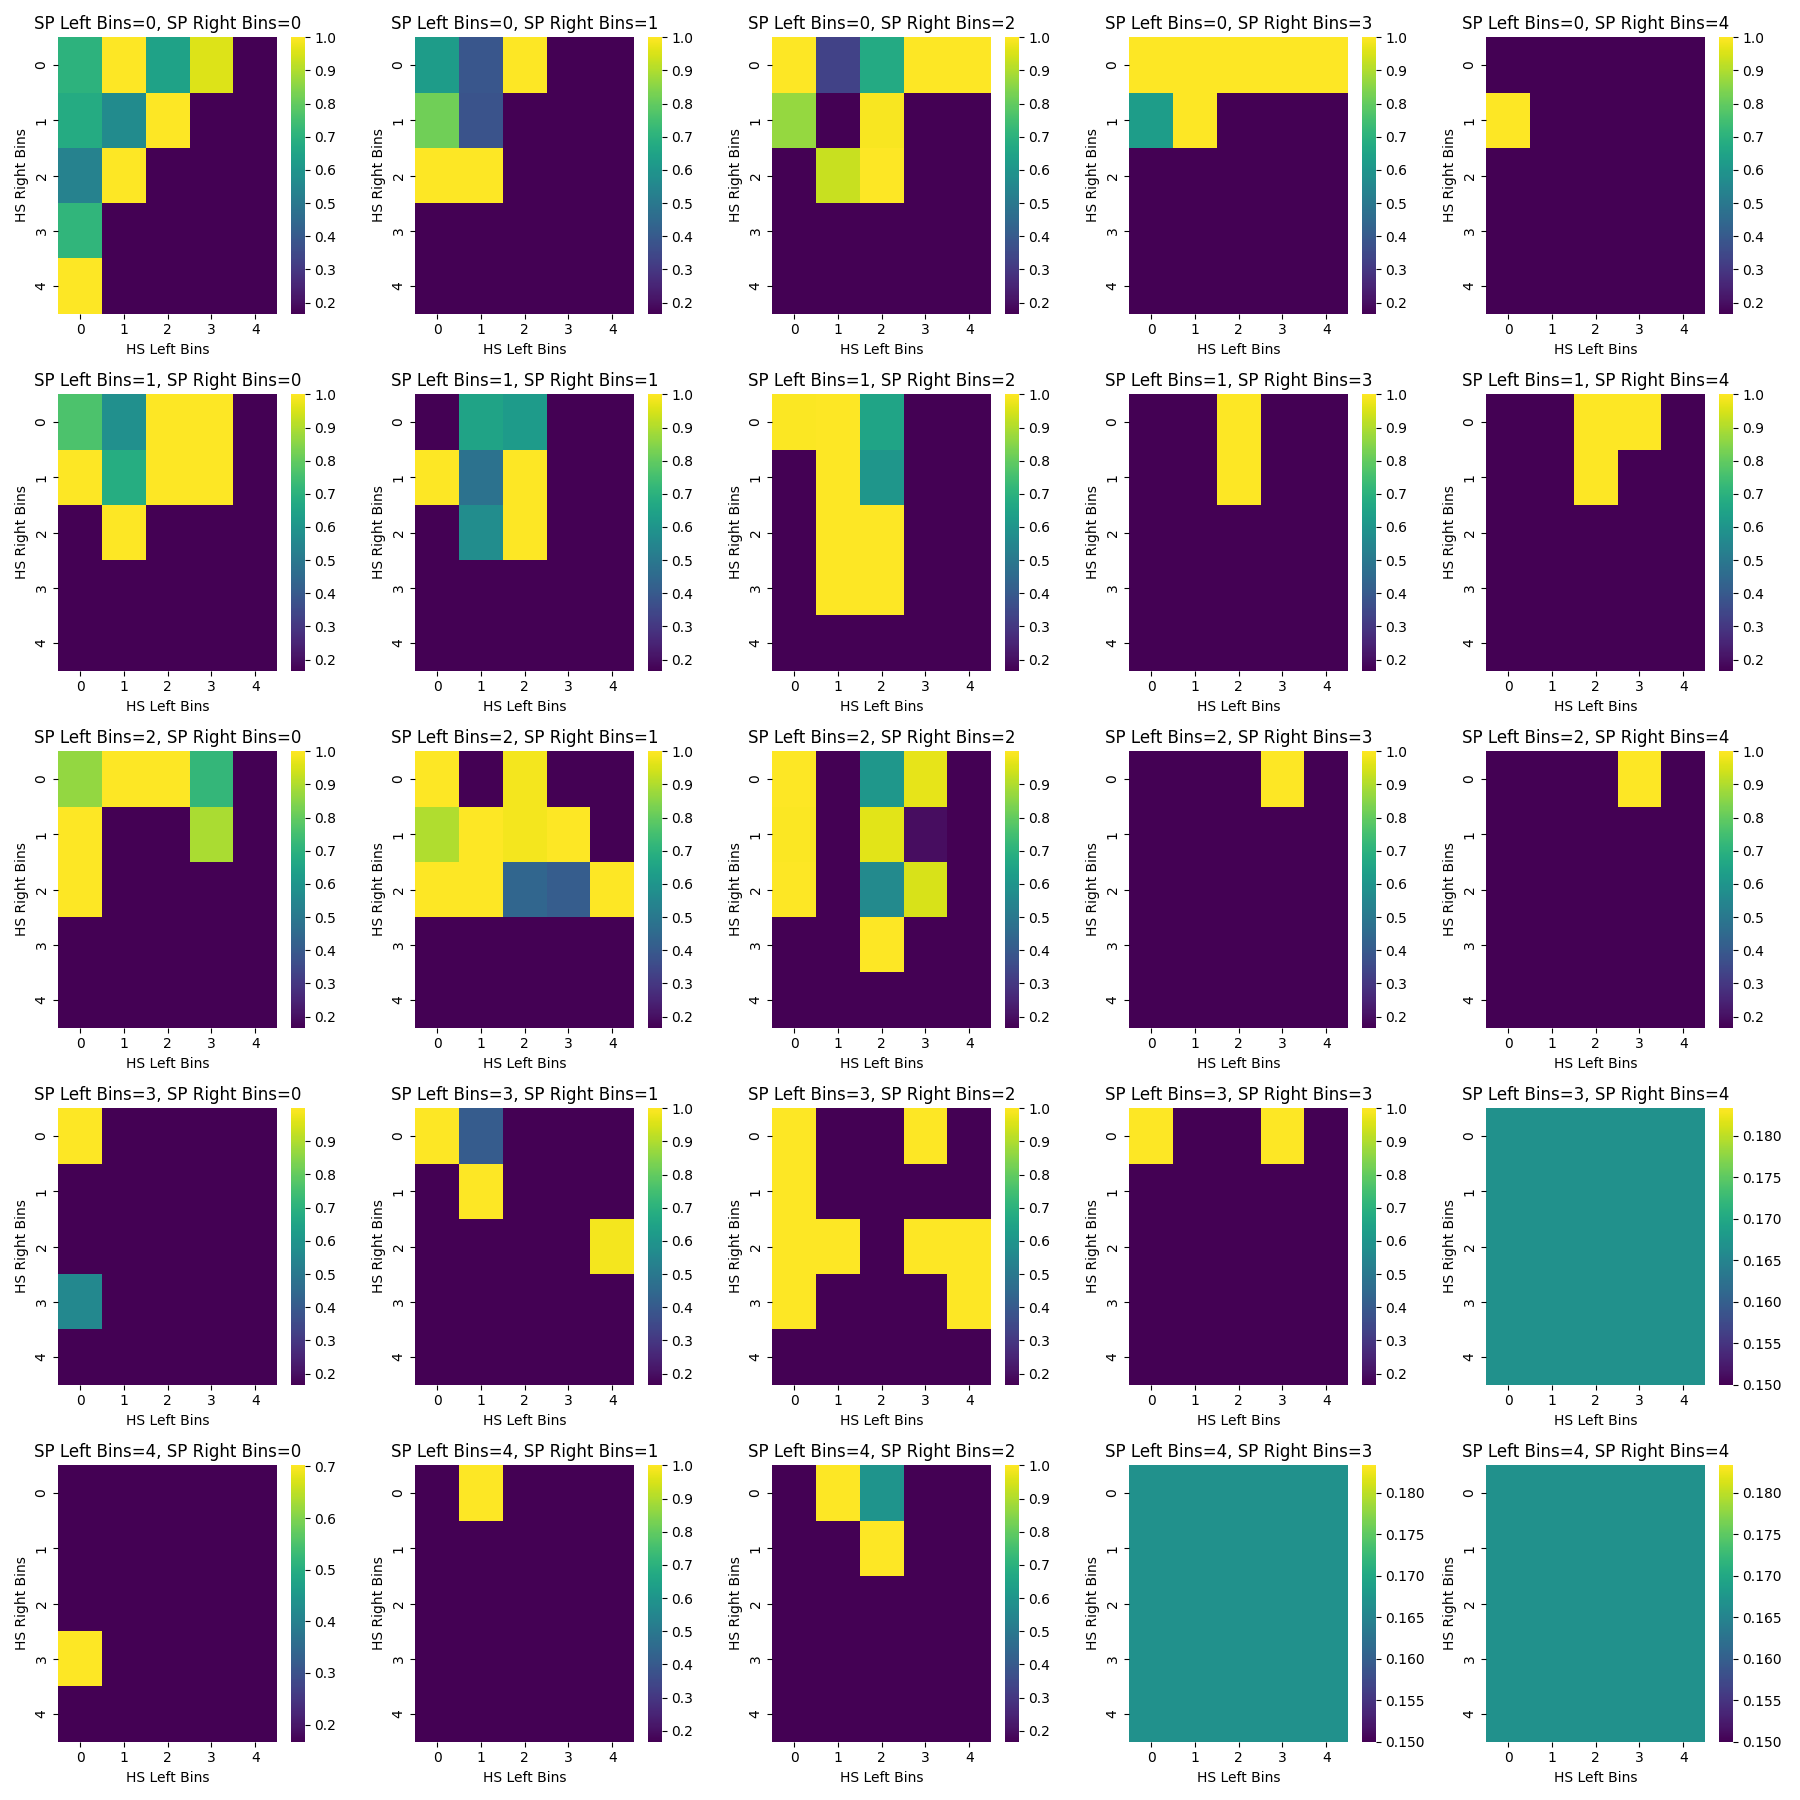
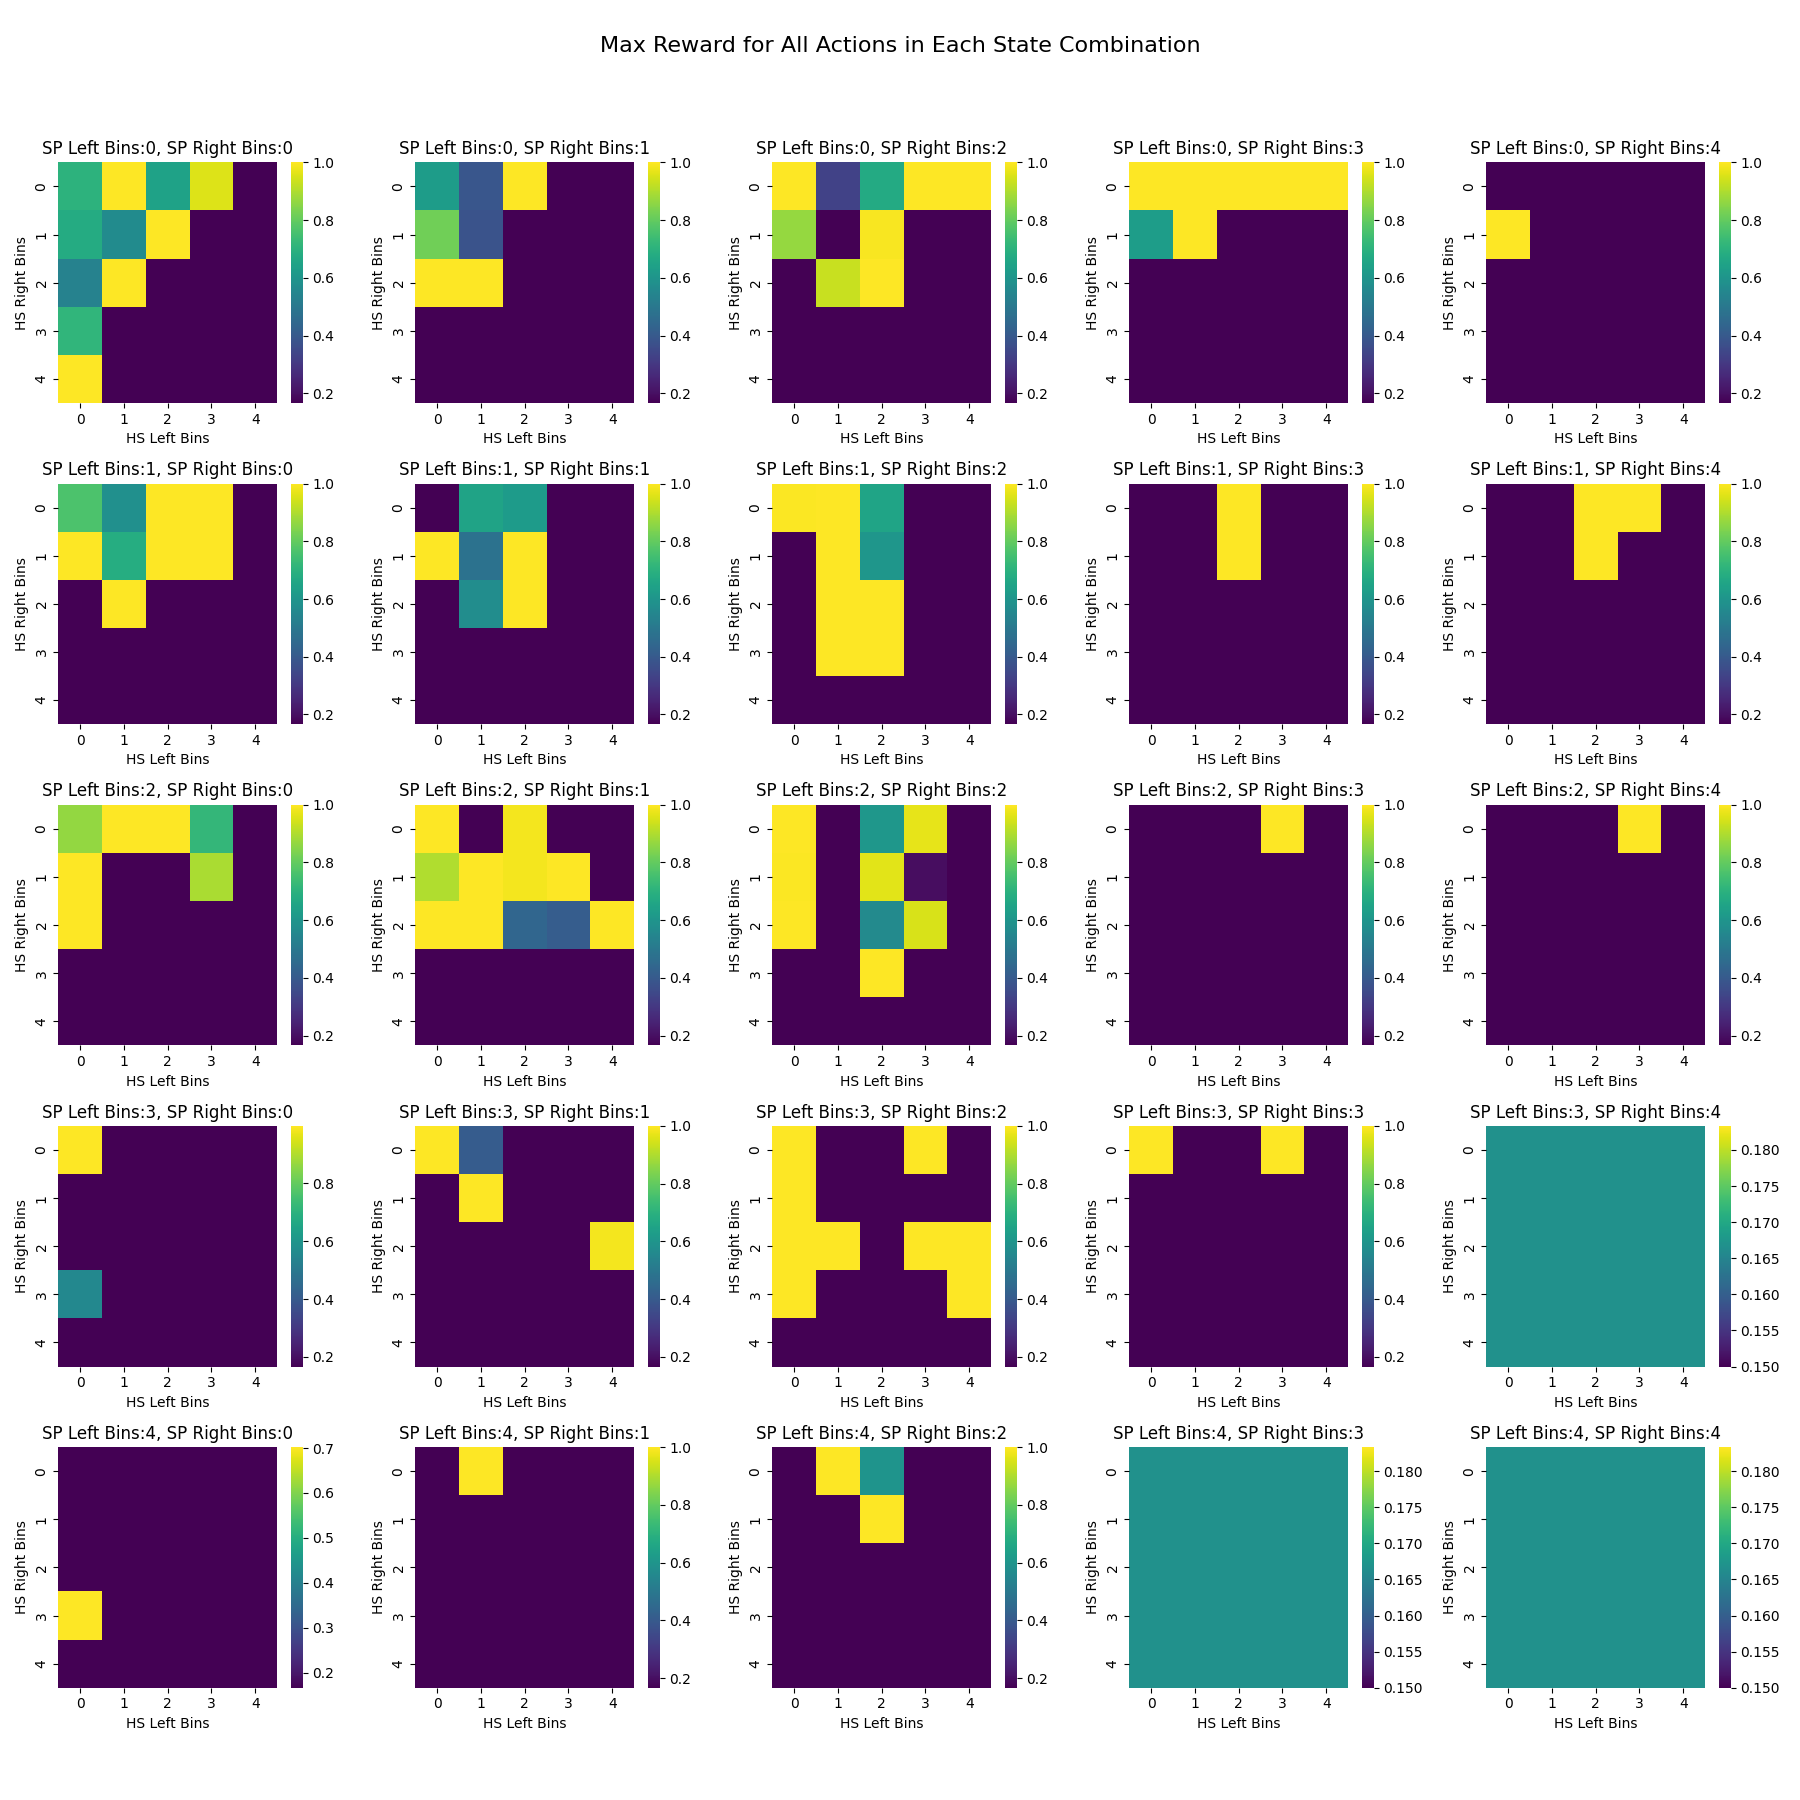
commit

diff --git a/plot_evaluate.py b/plot_evaluate.py
@@ -118,7 +118,7 @@ def plot_most_rewarded_action_4d_subplots(q_values, n_bin1, n_bin2, n_bin3, n_bi
     most_rewarded_action_4d = most_rewarded_action.reshape(n_bin4, n_bin3, n_bin2, n_bin1)
     # Create subplots for different slices of the 4D state space
     fig, axes = plt.subplots(n_bin3, n_bin4, figsize=(15, 15))
-    fig.suptitle("Most Rewarded Action for Each State for Different Fixed Values", fontsize=16)
+    fig.suptitle("Most Rewarded Action for Each State", fontsize=16)
     for i in range(n_bin3):
         for j in range(n_bin4):
             ax = axes[i, j]
@@ -133,30 +133,56 @@ def plot_action_reward_all_combinations(q_values, n_bin1, n_bin2, n_bin3, n_bin4
                                         label_bin1, label_bin2, label_bin3, label_bin4, test_folder):
     # Reshape q_values into its 4D form for easier slicing
     q_values_4d = q_values.reshape((n_bin4, n_bin3, n_bin2, n_bin1, n_actions))
-
     # Set up the figure for subplots for all combinations of bin3 and bin4
     fig, axes = plt.subplots(n_bin3, n_bin4, figsize=(18, 18))
+    fig.suptitle("Max Reward for All Actions in Each State Combination", fontsize=16)
     axes = axes.flatten()
-
     # Iterate over each combination of `bin3` and `bin4` to create a subplot for each
     for i in range(n_bin3):
         for j in range(n_bin4):
             ax = axes[j + i * n_bin4]  # Calculate the proper index for the subplot
-
             # Initialize a grid to store the reward for the specified action per (bin1, bin2) pair
             reward_grid = np.zeros((n_bin2, n_bin1))
-
             # Populate the reward grid for the current `bin3` and `bin4` combination
             for bin2 in range(n_bin2):
                 for bin1 in range(n_bin1):
                     reward_grid[bin2, bin1] = np.max(q_values_4d[j, i, bin2, bin1, :])  # Find the max reward across actions for each state
-
             # Plotting the heatmap for the current slice
             sns.heatmap(reward_grid, cmap="viridis", ax=ax)
-            ax.set_title(f"{label_bin3}={i}, {label_bin4}={j}")
+            ax.set_title(f"{label_bin3}:{i}, {label_bin4}:{j}")
             ax.set_xlabel(label_bin1)
             ax.set_ylabel(label_bin2)
-
     # Adjust the layout and save the figure
-    plt.tight_layout()
+    plt.tight_layout(rect=[0, 0.03, 1, 0.95])
     plt.savefig(test_folder + "action_reward_all_combinations.png")
+
+def plot_action_reward_individual(q_values, n_bin1, n_bin2, n_bin3, n_bin4, n_actions, 
+                                  label_bin1, label_bin2, label_bin3, label_bin4, test_folder):
+    # Reshape q_values into its 4D form for easier slicing
+    q_values_4d = q_values.reshape((n_bin4, n_bin3, n_bin2, n_bin1, n_actions))
+    # Iterate over each action to create a separate figure for each action
+    for action_index in range(n_actions):
+        # Set up the figure for subplots for all combinations of bin3 and bin4
+        fig, axes = plt.subplots(n_bin3, n_bin4, figsize=(18, 18))
+        fig.suptitle(f"Reward for Action {action_index + 1} in Each State Combination", fontsize=16)
+        axes = axes.flatten()
+        # Iterate over each combination of `bin3` and `bin4` to create a subplot for each
+        for i in range(n_bin3):
+            for j in range(n_bin4):
+                ax = axes[j + i * n_bin4]  # Calculate the proper index for the subplot
+                # Initialize a grid to store the reward for the specified action per (bin1, bin2) pair
+                reward_grid = np.zeros((n_bin2, n_bin1))
+                # Populate the reward grid for the current `bin3` and `bin4` combination
+                for bin2 in range(n_bin2):
+                    for bin1 in range(n_bin1):
+                        reward_grid[bin2, bin1] = q_values_4d[j, i, bin2, bin1, action_index]  # Extract reward for the specific action
+                # Plotting the heatmap for the current slice
+                sns.heatmap(reward_grid, cmap="viridis", ax=ax)
+                ax.set_title(f"{label_bin3}={i}, {label_bin4}={j}")
+                ax.set_xlabel(label_bin1)
+                ax.set_ylabel(label_bin2)
+        # Adjust the layout and save the figure
+        plt.tight_layout(rect=[0, 0.03, 1, 0.95])
+        plt.savefig(f"{test_folder}action_reward_subplots_action_{action_index}.png")
+        plt.close(fig)  # Close the figure to avoid overlap in subsequent iterations
+

diff --git a/train_AG.py b/train_AG.py
@@ -212,4 +212,6 @@ if mode == 'evaluate':
     # plot the action-reward subplots
     plot_action_reward_all_combinations(q_values, n_bin1, n_bin2, n_bin3, n_bin4, n_actions, 
                                         label_bin1, label_bin2, label_bin3, label_bin4, test_folder)
+    plot_action_reward_individual(q_values, n_bin1, n_bin2, n_bin3, n_bin4, n_actions, 
+                                  label_bin1, label_bin2, label_bin3, label_bin4, test_folder)
     # plot the single state action
